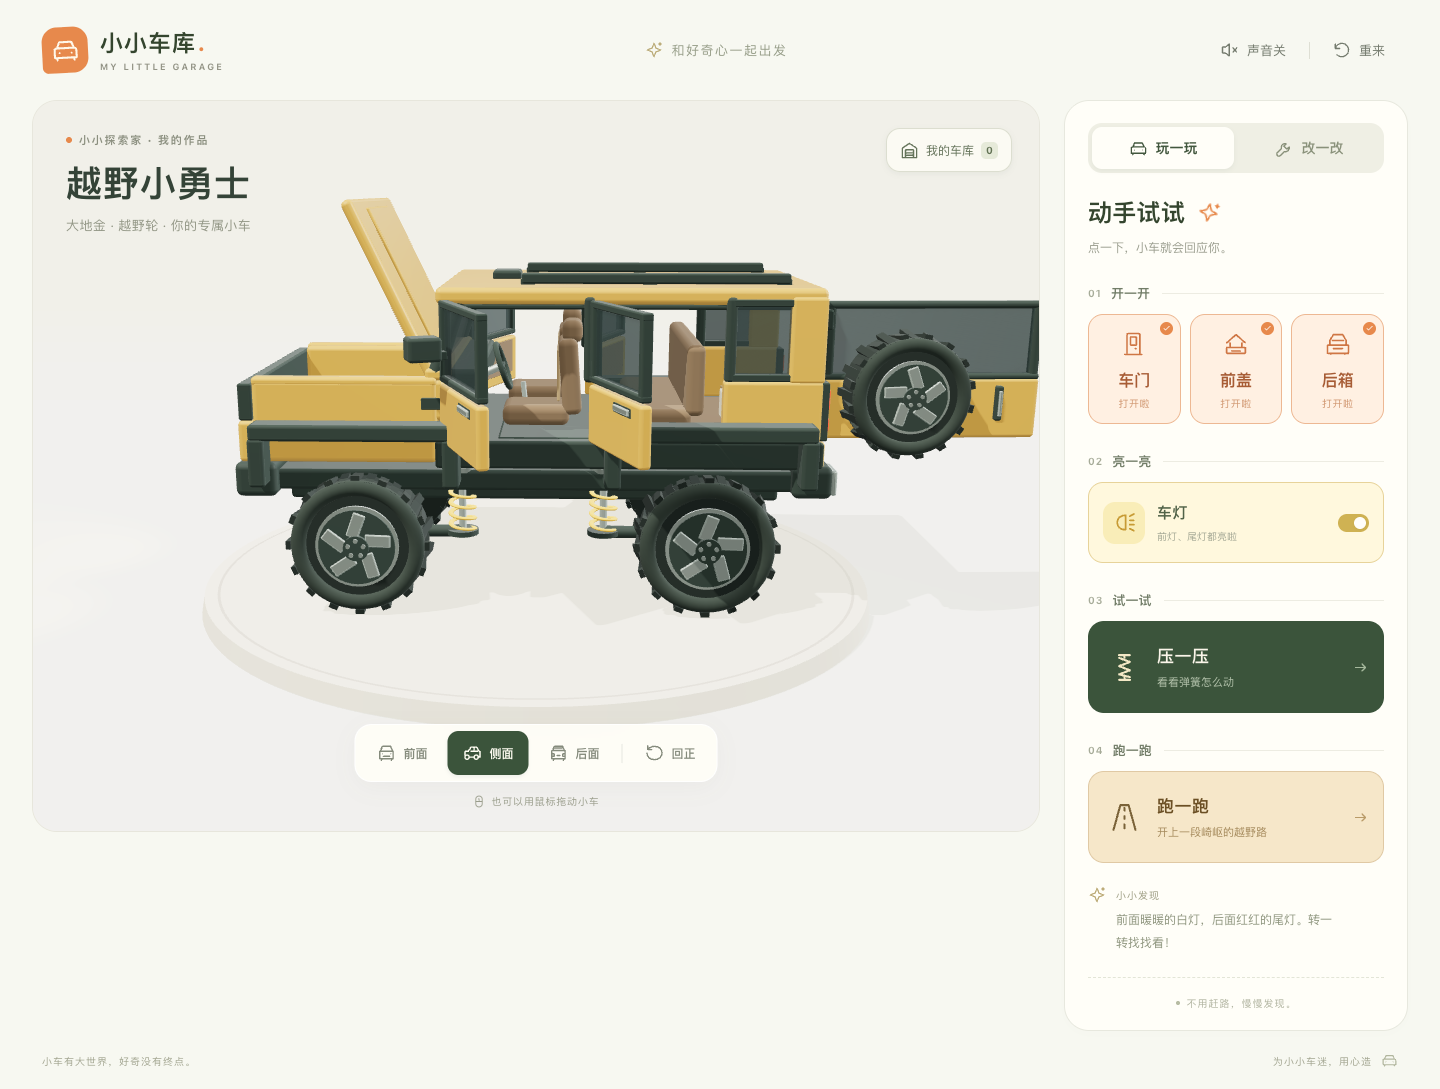
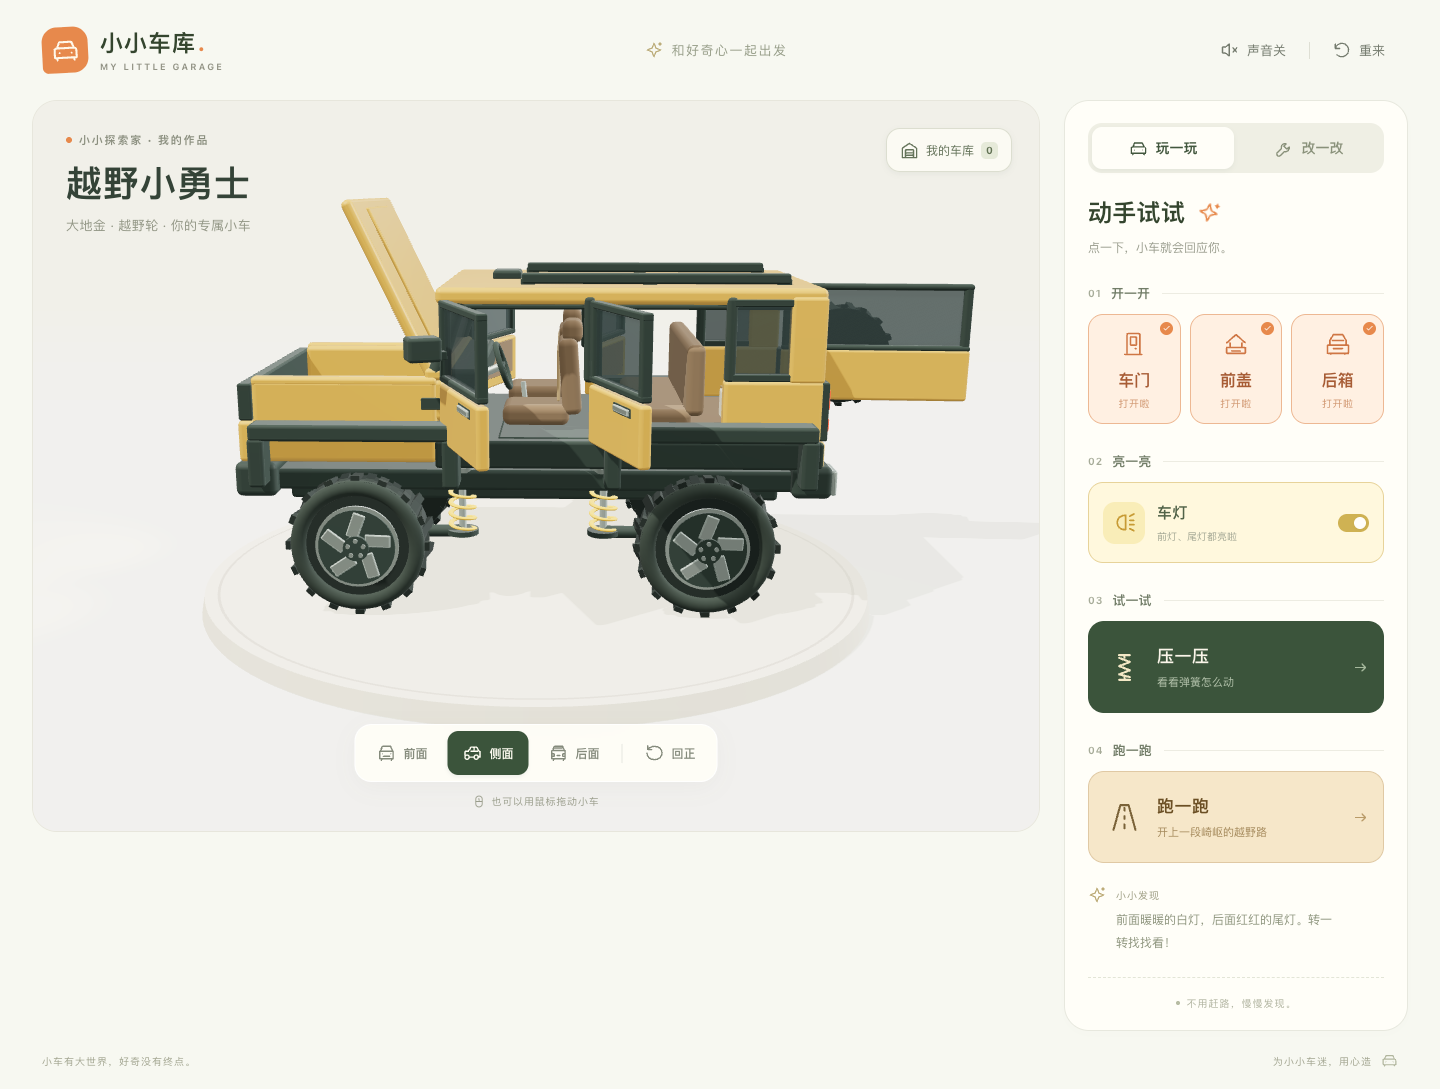
v0.4.1 修正尾门开向：铰链移回车尾右侧、门从左往右横摆，备胎落在车尾中线偏右；同步文档与后向截图

Changed region(s): [[0.5312, 0.2498, 0.7188, 0.4371]]

diff --git a/src/vehicle.ts b/src/vehicle.ts
@@ -219,25 +219,26 @@ export function createVehicle(makeLabel = labelTexture) {
     }
   }
 
-  // Rear: fixed quarters carry the vertical tail lamps; the narrow tailgate swings sideways carrying the spare.
+  // Rear: fixed quarters carry the vertical tail lamps; the narrow tailgate hinges on the right-hand edge and
+  // swings out to the right, carrying the spare proud of the right-hand side with its handle on the free left edge.
   box(body, [1.94, 0.055, 1.10], [0, 1.49, 1.85], seat);
   box(body, [0.65, 0.28, 0.48], [-0.42, 1.66, 1.95], cream, 0.035);
   for (const x of [-0.65, -0.41, -0.18]) box(body, [0.045, 0.02, 0.48], [x, 1.809, 1.95], fabric, 0.008);
   box(body, [0.35, 0.24, 0.38], [0.45, 1.64, 2.05], dark);
-  const hingeX = -0.96;
+  const hingeX = 0.96;
   const doorHalf = 0.94;
   const trunkPivot = new THREE.Group();
   trunkPivot.name = 'trunk-hinge';
   trunkPivot.position.set(hingeX, 2.67, REAR);
   body.add(trunkPivot);
-  box(trunkPivot, [1.86, 0.52, 0.11], [doorHalf, -0.91, 0], paint, 0.035);
-  box(trunkPivot, [1.70, 0.58, 0.027], [doorHalf, -0.34, 0.014], glass, 0.009);
-  for (const x of [0.06, 2 * doorHalf - 0.06]) box(trunkPivot, [0.09, 0.66, 0.08], [x, -0.33, 0], dark);
-  box(trunkPivot, [1.86, 0.065, 0.09], [doorHalf, -0.03, 0], dark);
-  box(trunkPivot, [1.86, 0.06, 0.10], [doorHalf, -0.64, 0], dark);
-  box(trunkPivot, [0.06, 0.30, 0.07], [2 * doorHalf - 0.36, -0.86, 0.08], dark, 0.02);
-  box(trunkPivot, [0.03, 0.22, 0.04], [2 * doorHalf - 0.36, -0.86, 0.115], silver, 0.01);
-  for (const y of [-0.15, -0.85]) box(body, [0.07, 0.17, 0.09], [hingeX - 0.06, 2.67 + y, REAR + 0.025], dark, 0.02);
+  box(trunkPivot, [1.86, 0.52, 0.11], [-doorHalf, -0.91, 0], paint, 0.035);
+  box(trunkPivot, [1.70, 0.58, 0.027], [-doorHalf, -0.34, 0.014], glass, 0.009);
+  for (const x of [-0.06, -(2 * doorHalf - 0.06)]) box(trunkPivot, [0.09, 0.66, 0.08], [x, -0.33, 0], dark);
+  box(trunkPivot, [1.86, 0.065, 0.09], [-doorHalf, -0.03, 0], dark);
+  box(trunkPivot, [1.86, 0.06, 0.10], [-doorHalf, -0.64, 0], dark);
+  box(trunkPivot, [0.06, 0.30, 0.07], [-(2 * doorHalf - 0.36), -0.86, 0.08], dark, 0.02);
+  box(trunkPivot, [0.03, 0.22, 0.04], [-(2 * doorHalf - 0.36), -0.86, 0.115], silver, 0.01);
+  for (const y of [-0.15, -0.85]) box(body, [0.07, 0.17, 0.09], [hingeX + 0.06, 2.67 + y, REAR + 0.025], dark, 0.02);
   for (const side of [-1, 1]) {
     box(body, [0.20, 0.50, 0.07], [side * 1.075, 1.76, REAR + 0.01], dark, 0.015);
     box(body, [0.15, 0.17, 0.025], [side * 1.075, 1.86, REAR + 0.045], taillamp, 0.015);
@@ -359,7 +360,7 @@ export function createVehicle(makeLabel = labelTexture) {
   const spare = wheelSet(1);
   spare.scale.setScalar(0.84);
   spare.rotation.y = -Math.PI / 2;
-  spare.position.set(doorHalf - 0.30, -0.74, 0.30);
+  spare.position.set(-(doorHalf - 0.30), -0.74, 0.30);
   trunkPivot.add(spare);
   const plate = new THREE.Mesh(new THREE.PlaneGeometry(0.58, 0.20), new THREE.MeshBasicMaterial({ map: makeLabel('LITTLE', '#eee7d7', '#34413d', 384, 112) }));
   plate.position.set(0, 1.15, REAR + 0.115);
@@ -434,7 +435,7 @@ export function createVehicle(makeLabel = labelTexture) {
     setRod(axles[1], wheels[2].position, wheels[3].position);
     doorPivots.forEach((pivot, index) => { pivot.rotation.y = doorSides[index] * pose.doors * 1.22; });
     hoodPivot.rotation.x = pose.hood * 1.13;
-    trunkPivot.rotation.y = -pose.trunk * 1.52;
+    trunkPivot.rotation.y = pose.trunk * 1.52;
     springs.forEach((spring, index) => {
       spring.arm.position.y = 0.64 + ground[index];
       spring.seat.position.y = 0.64 + ground[index];

diff --git a/tests/vehicle.test.ts b/tests/vehicle.test.ts
@@ -26,7 +26,7 @@ test('compression moves the body and shortens every spring while all wheel cente
   assert.ok(after.headlampEmission > 0);
 });
 
-test('doors open outwards; hood rises; rear door swings sideways toward the back without lifting', () => {
+test('doors open outwards; hood rises; the tailgate swings sideways toward the back off its right-hand hinge without lifting', () => {
   const rig = makeRig();
   const names = ['left-door-hinge', 'right-door-hinge', 'hood-hinge', 'trunk-hinge'];
   const centers = () => {
@@ -42,7 +42,7 @@ test('doors open outwards; hood rises; rear door swings sideways toward the back
   assert.ok(after[2].y > before[2].y + 0.3);
   assert.ok(Math.abs(after[3].y - before[3].y) < 1e-9);
   assert.ok(after[3].z > before[3].z + 0.5);
-  assert.ok(after[3].x < before[3].x - 0.5);
+  assert.ok(after[3].x > before[3].x + 0.5);
 });
 
 test('restoring the pose after combined actions restores actual geometry and lamp materials', () => {
@@ -98,7 +98,7 @@ test('changing paint updates every opening panel; customization preserves an in-
     const state = rig.inspect();
     assert.equal(state.doorAngles[0], -pose.doors * 1.22);
     assert.equal(state.doorAngles[3], pose.doors * 1.22);
-    assert.equal(state.trunkAngle, -pose.trunk * 1.52);
+    assert.equal(state.trunkAngle, pose.trunk * 1.52);
     assert.equal(state.lampsOn, true);
     assert.ok(Math.abs(state.bodyY - (0.12 + 0.34 - pose.compression)) < 1e-9);
   }

diff --git a/docs/车型复刻-越7方案.md b/docs/车型复刻-越7方案.md
@@ -2,7 +2,7 @@
 
 **日期：2026-09-14**  
 **目标版本：v0.4**  
-**状态：五步全部完成（v0.4.0），等待孩子辨认。**  
+**状态：五步全部完成（v0.4.0），v0.4.1 修正尾门开向（2026-09-22），等待孩子辨认。**  
 **依据：[第一次亲子试玩反馈](./亲子试玩反馈-第一次.md)第三条，家长选择 A 路线（神似复刻）并提供参考照片。**
 
 ## 参考照片
@@ -15,7 +15,7 @@
 2. **贯穿式黑色前灯带**：横贯整个车头上部，两端各一组方形大灯（左右各两个竖排方灯），中间品牌字母。灯带下方是车身色保险杠面，最下方黑色下护板带银色饰板。
 3. **方形轮拱**：黑色塑料方形轮眉，与车身色截然分开；轮眉下缘水平。
 4. **悬浮车顶**：所有立柱涂黑，玻璃连成一条深色带；C 柱之后有一大块后侧窗；D 柱车身色，粗壮。
-5. **背挂备胎 + 侧开门**：备胎偏向车尾一侧，尾门横向侧开，门把手在备胎另一侧。已实现，只需调外观。
+5. **背挂备胎 + 侧开门**：备胎偏向车尾右侧，尾门铰链在车尾右侧边缘、门从左往右横摆打开，门把手在左侧自由边。已实现，只需调外观。
 6. **竖向尾灯**：每侧两块竖排红色矩形，上大下小，中间黑色分隔。
 7. **双侧行李架**：车顶两条黑色纵向行李架，前端有小凸起。
 8. **平引擎盖 + 中央隆起**：引擎盖平直，中间有一道略高的隆起；前端正上方有小天线包。
@@ -72,6 +72,14 @@
 | 方案 | c598b50 | 本文；参考照片目录加入 .gitignore |
 | 1-4 | 82172b3 | 车身、前脸、侧面、车尾一次重建（各部分相互依赖，分开提交会出现中间态穿模） |
 | 5 | 见 git log | 预览 SVG 方盒子化、截图、文档、版本 0.4.0 |
+| 修正 | 见 git log | v0.4.1 尾门铰链回到车尾右侧、把手回到左侧自由边、备胎偏右；单元测试与截图同步 |
+
+## 修正：v0.4.1 尾门开向（2026-09-22）
+
+- **问题：** v0.4 重建车尾时把尾门铰链放到了车尾左侧（`hingeX = -0.96`、门绕 `-1.52` 弧度摆出），与照片相反，也和 v0.2.1、v0.3 的既有实现相反；备胎跟着落到了车尾中线偏左。
+- **修正：** 铰链改回 `hingeX = 0.96`（车尾右侧边缘），门内各件的局部 x 取反，摆出方向改为 `+1.52` 弧度，把手回到左侧自由边；备胎由 `doorHalf - 0.30` 改为 `-(doorHalf - 0.30)`，落在车尾中线偏右。车体坐标实测：铰链 x=+0.96，把手 x=−0.56，备胎中心 x=+0.32（本模型方向盘在 x=−0.53，故 −x 为车左、+x 为车右）。
+- **不变：** 「后箱」按钮、动画时序、开度（1.52 弧度 ≈ 87°）、状态保存、试跑前后自动关合、`trunk-hinge` 节点名都不变。
+- **验证：** 车模单元测试断言改为「门尾端向车尾右侧移动、把手留在左侧、门不抬升」；25 项单元测试、14 项浏览器回归、类型检查与生产构建全部通过。
 
 ## 验证结果（2026-09-14）
 
@@ -89,7 +97,7 @@
 - 灯带中央是装饰点阵，不是品牌字母；车尾没有车型字样。
 - 轮胎偏厚偏"玩具"，照片是 20 寸薄胎；三种轮胎选项保留了这个差异。
 - 前翼子板通风口只是一个小黑框。
-- 后 45° 看，尾门横开方向与照片一致（铰链在左），备胎位置偏右与照片一致。
+- 后 45° 看，尾门横开方向与照片一致（铰链在车尾右侧、门从左往右摆出），备胎落在车尾中线偏右，与照片一致。
 
 ## 执行中的取舍
 

diff --git a/README.md b/README.md
@@ -24,7 +24,7 @@
 点「玩一玩」摆弄小车：
 
 - 鼠标拖动：从不同角度看车。也可直接点「前面」「侧面」「后面」。
-- 车门、前盖、后箱：分别点击打开，再点一次关闭，可以同时打开。四扇车门一起开；后箱像真正的越野车一样横向侧开，备胎挂在门上一起摆出。
+- 车门、前盖、后箱：分别点击打开，再点一次关闭，可以同时打开。四扇车门一起开；后箱像真正的越野车一样铰链在车尾右侧、门从左往右横摆打开，把手在左侧自由边，备胎挂在门上偏右的位置一起摆出。
 - 车灯：切换前灯和尾灯，换视角后保持状态。
 - 压一压：播放悬挂压缩与回弹；播放中避免重复叠加，结束后可以再试。
 - 跑一跑：展台变成一段高低起伏的越野路，小车原地前进约二十秒：轮子转动，四个轮子各自随路面起伏，弹簧各自伸缩，车身跟着俯仰侧倾。跑之前会自动关上车门、前盖、后箱，跑完再打开；灯光保持。跑的时候仍可拖动视角、切换观察角度，也可以去「改一改」换装备。

diff --git a/docs/亲子试玩反馈-第一次.md b/docs/亲子试玩反馈-第一次.md
@@ -36,6 +36,10 @@
 
 **取舍说明：** 横开门在「后面」视角会遮住一部分右侧车身，但能完整看到后箱里的东西；从「侧面」看时门板伸出车尾，更像真车。这是真实性优先于画面对称的选择。
 
+**v0.4.1 修正（2026-09-22）：** v0.4 按越7 重建车尾时，铰链被镜像到了车尾左侧，开门方向也跟着反了。现已改回车尾右侧铰链：门从左往右横向摆出，把手回到左侧自由边，备胎落在车尾中线偏右（照片里也偏右）。
+
+**验证：** 车模单元测试断言改为「门尾端向车尾右侧移动、把手留在左侧、门不抬升」，25 项单元测试与 14 项浏览器回归全部通过；实际画面见[后门横向侧开](./screenshots/rear-side-door.png)。
+
 ## 反馈三：里面用的汽车模型可以指定吗？比如现实中的某款车，提供外观图片让你模仿复刻？
 
 **家长已选 A 路线并提供越7 四张照片，实施记录见[车型复刻方案](./车型复刻-越7方案.md)。** 原分析如下。
